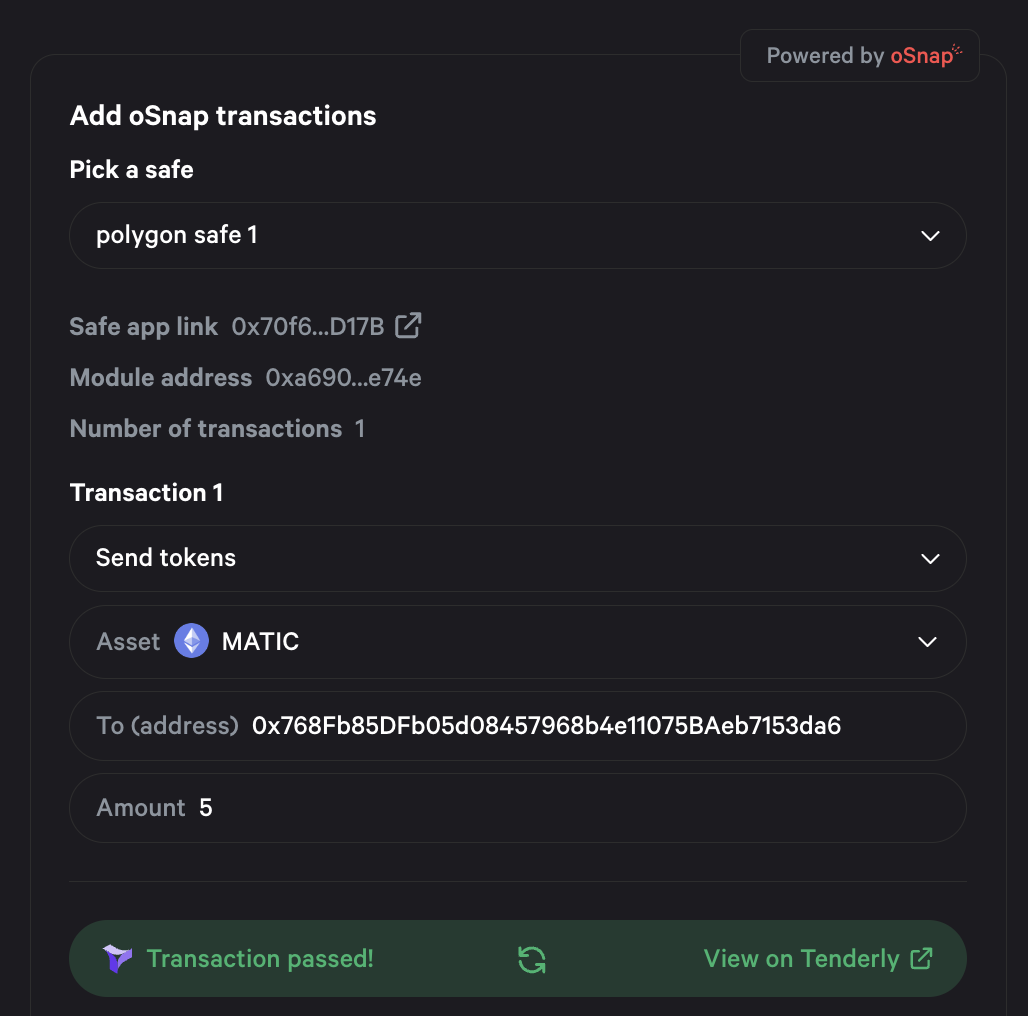
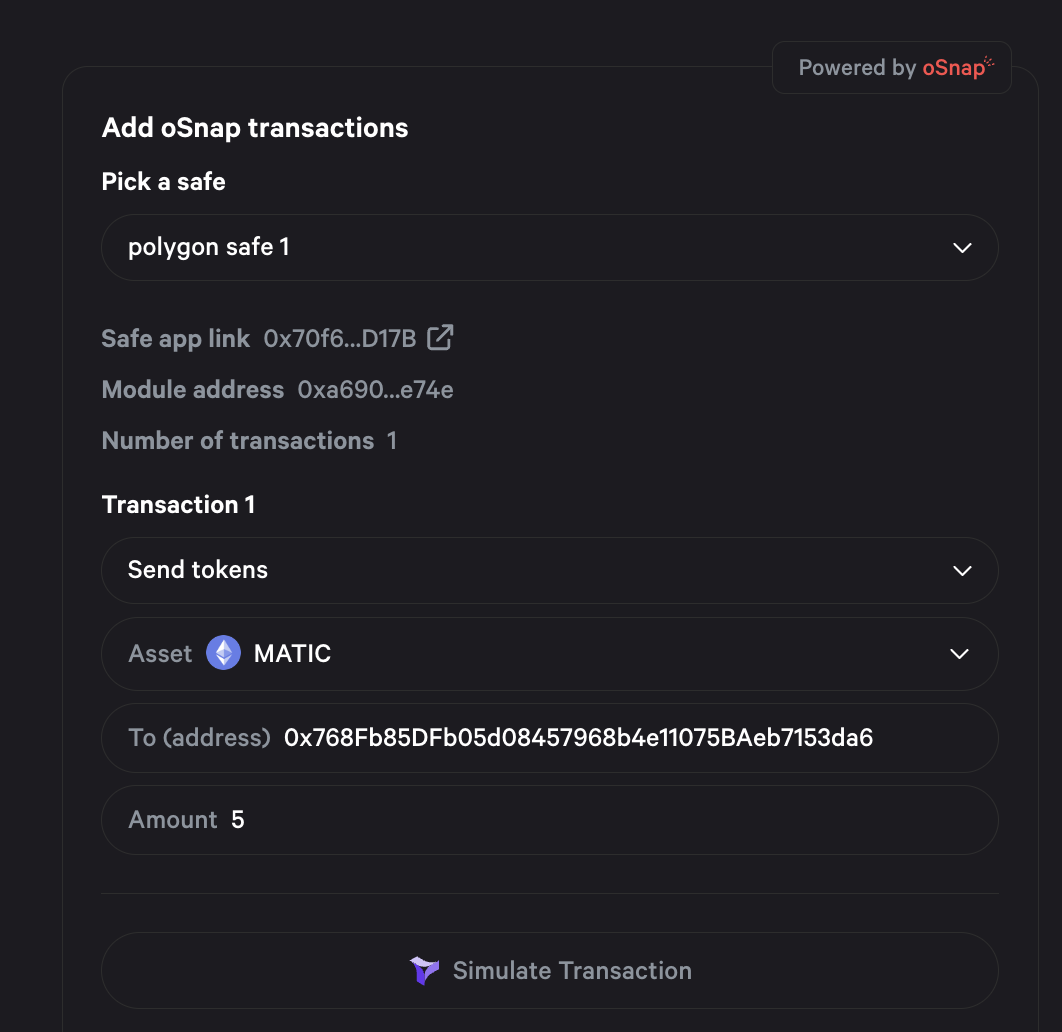
GITBOOK-199: kanishk's overhaul v0

diff --git a/README.md b/README.md
@@ -1,21 +1,84 @@
 ---
-description: An optimistic oracle built for Web3
+description: A decentralized truth machine
 ---
 
-# UMA Protocol
+# Welcome to UMA
 
-UMA is an optimistic oracle and dispute arbitration system that securely allows for arbitrary types of data to be brought onchain. UMA’s oracle system provides data for projects including a crosschain bridge, insurance protocols, custom derivatives and prediction markets.
+**An optimistic oracle (OO) that can record any verifiable truth or data onto a blockchain** :crystal\_ball:
 
-UMA's oracle is used to create many other types of products and protocols. For information about Outcome, a DAO tooling platform built on UMA that supports KPI Options, Success Tokens and optimistic governance, refer [here](https://www.outcome.finance/). For information about Across, a crosschain asset bridge secured by UMA, refer [here](https://across.to/).
+UMA is an optimistic oracle and dispute arbitration system that securely allows for arbitrary types of data to be brought onchain. UMA’s oracle system provides verified onchain data for projects including:&#x20;
 
-## [Developers](developers/optimistic-oracle/getting-started.md)
+1. Crosschain bridge
+2. Prediction markets
+3. Insurance protocols
+4. Custom derivatives&#x20;
 
-## [Protocol Overview](protocol-overview/how-does-umas-oracle-work.md)
+UMA's optimistic oracle (OO) is designed to be modular and extensible with focus on building real-world use cases. Two main versions of the optimistic oracle (OO) are currently live: **OOv2** and **OOv3**. Choosing the right one depends on your use case.&#x20;
 
-## [Community](community/governance/)
+<figure><img src=".gitbook/assets/For Kanishk (1).png" alt=""><figcaption></figcaption></figure>
 
-## [Using UMA](using-uma/voting-walkthrough/)
+***
 
-## [Verification Guide](./#verification-guide)
+## Core Concepts
 
-## [Resources](resources/network-addresses/)
+Learn the fundamentals of UMA's optimistic oracle.
+
+<table data-view="cards"><thead><tr><th></th><th></th><th data-hidden data-card-cover data-type="files"></th><th data-hidden data-card-target data-type="content-ref"></th></tr></thead><tbody><tr><td><strong>Optimistic Oracle V2</strong></td><td>Build prediction markets and insurance protocols</td><td><a href=".gitbook/assets/OOv2.png">OOv2.png</a></td><td><a href="developers/optimistic-oracle/">optimistic-oracle</a></td></tr><tr><td><strong>Optimistic Oracle V3</strong></td><td>Build data asserters and escalation managers</td><td><a href=".gitbook/assets/OOv3.png">OOv3.png</a></td><td><a href="developers/optimistic-oracle-v3/">optimistic-oracle-v3</a></td></tr><tr><td><strong>Voting Walkthrough</strong></td><td>Learn how to stake tokens, vote, and claim rewards</td><td><a href=".gitbook/assets/voting.png">voting.png</a></td><td><a href="using-uma/voting-walkthrough/">voting-walkthrough</a></td></tr></tbody></table>
+
+### Correct Oracle for Your Use Case
+
+UMA offers OOv2 and OOv3. Based on your idea and product, let's learn which one fits your use case best:
+
+|                                              OOv2                                              |                                                   OOv3                                                  |
+| :--------------------------------------------------------------------------------------------: | :-----------------------------------------------------------------------------------------------------: |
+|   Integrations must submit data requests that can then be answered by third-party proposers.   | Integrations submit assertions, where they propose data to their own request along with its parameters. |
+| The specific parameters for proposers and disputers to follow must be included in the request. |                        The challenge period and dispute process remains the same.                       |
+|  Primary use cases: Prediction markets, sports betting applications, and insurance protocols.  |       Primary use cases: Crosschain infrastructure, content moderation, transaction verification.       |
+
+We understand that your product needs can be complex and would require a larger discussion on which optimistic oracle version to use. Feel free to reach out to us [here](resources/links.md#links) and get help.
+
+***
+
+## Developer Quickstart
+
+Having decided the correct optimistic oracle for your use case, let's now dive deeper into how you can ship apps powered by verifiable onchain truth using UMA's optimistic oracle.
+
+{% tabs %}
+{% tab title="OOv2" %}
+OOv2 prioritizes protocols that need third-parties to propose answers to data requests.&#x20;
+
+Here are some app guides to help you build on UMA OOv2:
+
+<table data-card-size="large" data-view="cards"><thead><tr><th></th><th></th><th data-hidden data-card-cover data-type="files"></th></tr></thead><tbody><tr><td><strong>Prediction Market</strong></td><td>Use OOv2 to identify and settle real-world events in prediction markets.</td><td><a href=".gitbook/assets/Dev Quickstart - Prediction Markets.png">Dev Quickstart - Prediction Markets.png</a></td></tr><tr><td><strong>Insurance</strong></td><td>Use OOv2 to verify and resolve claims in insurance applications.</td><td><a href=".gitbook/assets/Dev Quickstart - Insurance.png">Dev Quickstart - Insurance.png</a></td></tr></tbody></table>
+{% endtab %}
+
+{% tab title="OOv3" %}
+OOv3 prioritizes protocols that simply needs asserted data to be verified.&#x20;
+
+Here are some app guides to help you build on UMA OOv3:
+
+<table data-card-size="large" data-view="cards"><thead><tr><th></th><th></th><th data-hidden data-card-cover data-type="files"></th></tr></thead><tbody><tr><td><strong>Data Asserter</strong></td><td>Use OOv3 to asserts arbitrary offchain data onchain through flexible assertions</td><td><a href=".gitbook/assets/Dev Quickstart - Data assertion.png">Dev Quickstart - Data assertion.png</a></td></tr><tr><td><strong>Escalation Managers</strong></td><td>Use OOv3 to enable modular functionality via custom escalation managers</td><td><a href=".gitbook/assets/Dev Quickstart - Escalation managers.png">Dev Quickstart - Escalation managers.png</a></td></tr></tbody></table>
+{% endtab %}
+{% endtabs %}
+
+***
+
+## Community
+
+The UMA token secures UMA’s optimistic oracle through decentralized governance and economic guarantees against corruption. Token holders vote on upgrades, price requests, and disputes, earning rewards for honest participation.
+
+**UMA Improvement Proposals (UMIPs)** are design documents used to propose changes to the UMA ecosystem. They are an important part of UMA's governance processes.&#x20;
+
+The **UMA DAO** accepts proposals for onchain actions that require tokenholders approval. An example would be a request for funding from the UMA treasury.
+
+<table data-view="cards" data-full-width="false"><thead><tr><th></th><th></th><th data-hidden data-card-cover data-type="files"></th></tr></thead><tbody><tr><td><strong>Governance</strong></td><td>Learn about UMA token, UMIPs and voting on UMA's DVM</td><td><a href=".gitbook/assets/01UMA governance.png">01UMA governance.png</a></td></tr><tr><td><strong>UMIP Process</strong></td><td>Learn how UMIPs propose changes to the UMA Ecosystem</td><td><a href=".gitbook/assets/02UMIP process.png">02UMIP process.png</a></td></tr><tr><td><strong>DAO Proposals</strong></td><td>Learn how you can submit onchain proposals to the UMA Ecosystem</td><td><a href=".gitbook/assets/03DAO proposal.png">03DAO proposal.png</a></td></tr></tbody></table>
+
+***
+
+## Resources and Support
+
+We request all community members and developers to [join our discord server](https://discord.umaproject.org/) and gain instant help on any issues they face while voting or submitting proposals to UMA.
+
+You can [find more support resources here](broken-reference).
+
+The security of our protocol is extremely crucial. If you notice any bugs in the protocol, [please report them here](resources/audit-and-bug-bounty-programs.md#submissions). You can also find details of our [audits here](resources/audit-and-bug-bounty-programs.md).

diff --git a/developers/optimistic-oracle-v3/quick-start.md b/developers/optimistic-oracle-v3/quick-start.md
@@ -1,0 +1,59 @@
+---
+description: 0 to 1 integration with the Optimistic Oracle V3.
+---
+
+# Quick start
+
+The primary integration point into the UMA ecosystem is the Optimistic Oracle V3 (OOV3). The OOV3 is an _**oracle for arbitrary off-chain data**_ which leverages an interactive escalation game between _asserters_ and _disputers_ and is secured by _economic incentives_. It differs from the Optimistic Oracle V2 (getting started can be found [here](../optimistic-oracle/getting-started.md)) by being easier to reason about and simpler in integration points.
+
+This getting started tutorial will show you how to go from 0 to 1 with the OOV3 by executing the simplest possible assertion flow. Later in the docs you can find more information on how the OOV3 works and dig deeper into its mechanism and more sophisticated code examples.&#x20;
+
+### **A minimum viable OOV3 integration**
+
+The OOV3 works by making a truth claim about the world, stating that something has happened or is true. Once asserted, the assertion enters a challenge period wherein someone can disagree with the assertion, by disputing it. If no one disputes it during the challenge window the statement is taken as true. If disputed, the outcome is arbitrated using the UMA DVM (more info on how this works here).&#x20;
+
+In this tutorial you will be working through a simple smart contract that asserts the following truth: `Statement: Argentina won the 2022 Fifa world cup in Qatar.`&#x20;
+
+Once through the challenge window, you will use the assertion in your resolution contract. This shows the full non-dispute lifecycle of an OOV3 data assertion. It will give you the basic intuition as to how the Optimistic Asserter works without much overhead and is a great starting point before digging deeper.  Let's get started!
+
+### **Prerequisites**
+
+To complete this tutorial you will nee&#x64;**:**
+
+1. Metamask installed in a Chromium based browser (such as [Google Chrome](https://www.google.com/chrome/)) If you don't have it already, you can get Metamask [here](https://metamask.io/).
+2. A wallet set up in Metamask.
+3. [Görli](https://goerli.net/) test ETH to send test transactions. You can get GETH from [Alchemy's faucet](https://goerlifaucet.com/).
+
+### Asserting a truth
+
+First, we will work through the basic flow for _asserting a truth to the oracle_. In this example, we are making a statement about the outcome of a sports event, but the statement could be much more complex; it could power any kind of smart contract system requiring data.&#x20;
+
+The contract used in this tutorial is meant to be a simple data assertion flow. The contract exposes a simple `assertTruth` function which asserts the truth to the OA about the outcome of the world cup.
+
+1. [Go to this example contract on Remix](https://remix.ethereum.org/#activate=solidity,fileManager\&version=soljson-v0.8.16+commit.07a7930e.js\&optimize=false\&runs=200\&gist=17a8a29b2f8ae432e8bac0b88cff8bb1\&call=fileManager//open//gist-17a8a29b2f8ae432e8bac0b88cff8bb1/OOV3_GettingStarted.sol). This gives you the minimum assertion flow. Read the contract and the comments listed within.
+2. In the far left hand menu, click the link to deploy and run transactions (which looks like the Ethereum logo and a right arrow).
+3. In the "Environment" dropdown, choose "Injected Provider," and connect to your wallet. **Make sure you are connected to Görli within your metamask wallet, that has Görli test ETH!** You don't want to deploy to a real network and spend real gas, and the Görli Optimistic Oracle address hardcoded into the contract will not work on other networks.
+4. Under the "Contract" dropdown, select `OOV3_GettingStarted`.
+5. Click "Deploy" and confirm the transaction with your wallet.
+6. You should now see the `OOV3_GettingStarted` contract under "Deployed Contracts". Clicking the dropdown carrot will reveal buttons for each of the functions in the contract.
+7. Click `assertTruth` to request the data specified in the contract's ancillary data, asserting the truth about the outcome of the Fifa world cup. This will submit a data assertion to the Optimistic Asserter and the assertion will enter the challenge period.
+
+What we've done in the above steps is: a) deploy a smart contract and b) submit a "data assertion" to the Optimistic Oracle V3 through the call to the Optimistic Oracle V3's `assertTruthWithDefaults` function. Now, the assertion has entered the challenge window and can be disputed by someone who disagrees with the assertion. If you click the `getAssertion` you can see some of the fields that are associated with the assertion. For more details on what these fields mean you can look at the OOV3 interface [here](https://github.com/UMAprotocol/protocol/blob/7a93650a7494eaee83756382a18ecf11314499cf/packages/core/contracts/optimistic-oracle-v3/interfaces/OptimisticOracleV3Interface.sol).
+
+The default liveness for an assertion is 120 seconds (2 minutes). Wait this time before going to the next step.
+
+### Settling the assertion
+
+Once the assertion has settled, and assuming no one has disputed it, we can settle it! Do the following:
+
+1. Click `settleAndGetAssertionResult` in remix. This will send a transaction to settle the assertion and return the settlement value.
+2. Wait for the transaction to mine.
+3. Once mined you can expand the transaction output block inline with the green tick arrow. If you scroll down here you can find some information about the assertion, such as the settlement value (which should be `true` as it was not disputed).
+
+<figure><img src="../../.gitbook/assets/2023-02-02 at 14.39.21@2x.png" alt=""><figcaption></figcaption></figure>
+
+4. Now, you can call `getAssertion` and `getAssertionResult` from remix and see the outputs. `getAssertion` has changed such the `settled` value is `true` and `getAssertionResult` now returns `true` as the assertion was deemed valid as it was not disputed.
+
+### Next Steps
+
+Hopefully you got a basic understanding of the Optimistic Oracle V3 request flow from this getting started guide. Note that this kind of example would not really work on mainnet as: a) there were no bonds for the asserter (and therefore no rewards for disputers) b) the challenge window was too short. The Optimistic Oracle V3 works due to economic incentives between the asserter and disputers, which was absent in this example to keep things simple. For some incentive compatible examples check out some of the example tutorials where we walk through more details on the functions discussed in this guide. Those can be found [here](./).

diff --git a/SUMMARY.md b/SUMMARY.md
@@ -1,11 +1,19 @@
 # Table of contents
 
-* [UMA Protocol](README.md)
+* [Welcome to UMA](README.md)
+* [What's New!](whats-new.md)
 
 ## Developers
 
-* [Quick start](developers/quick-start.md)
-* [Optimistic Oracle](developers/optimistic-oracle-v3/README.md)
+* [Optimistic Oracle v2](developers/optimistic-oracle/README.md)
+  * [Quick Start](developers/optimistic-oracle/getting-started.md)
+  * [Deposit Box](developers/optimistic-oracle/solidity-examples.md)
+  * [Event-Based Prediction Market](developers/optimistic-oracle/in-depth-tutorial-event-based-prediction-market.md)
+  * [Insurance Claim Arbitration](developers/optimistic-oracle/in-depth-tutorial-insurance-claims-arbitration.md)
+  * [Internal Optimistic Oracle](developers/optimistic-oracle/internal-optimistic-oracle.md)
+  * [Optimistic Arbitrator](developers/optimistic-oracle/in-depth-tutorial-optimistic-arbitrator.md)
+* [Optimistic Oracle v3](developers/optimistic-oracle-v3/README.md)
+  * [Quick start](developers/optimistic-oracle-v3/quick-start.md)
   * [Prediction Market](developers/optimistic-oracle-v3/prediction-market.md)
   * [Insurance](developers/optimistic-oracle-v3/in-depth-tutorial-insurance.md)
   * [Data Asserter](developers/optimistic-oracle-v3/data-asserter.md)
@@ -47,8 +55,8 @@
 
 * [Verification System](verification-guide/verification-system.md)
 * [Polymarket](verification-guide/yes_or_no.md)
-* [oSnap](verification-guide/osnap.md)
 * [Across](verification-guide/across.md)
+* [oSnap](verification-guide/osnap.md)
 * [Y2K](verification-guide/y2k.md)
 * [Index](verification-guide/index.md)
 
@@ -62,13 +70,6 @@
 * [Subgraphs](resources/subgraphs/subgraph-data.md)
   * [Mainnet Voting Entities](resources/subgraphs/mainnet-voting-entities.md)
   * [Queries](resources/subgraphs/queries.md)
-* [Optimistic Oracle v2](developers/optimistic-oracle/README.md)
-  * [OO Quick Start](developers/optimistic-oracle/getting-started.md)
-  * [Deposit Box](developers/optimistic-oracle/solidity-examples.md)
-  * [Internal Optimistic Oracle](developers/optimistic-oracle/internal-optimistic-oracle.md)
-  * [Insurance Claim Arbitration](developers/optimistic-oracle/in-depth-tutorial-insurance-claims-arbitration.md)
-  * [Optimistic Arbitrator](developers/optimistic-oracle/in-depth-tutorial-optimistic-arbitrator.md)
-  * [Event-Based Prediction Market](developers/optimistic-oracle/in-depth-tutorial-event-based-prediction-market.md)
 * [Voting with a 2-Key Contract](resources/voting-with-a-2-key-contract.md)
 * [Unsupported Contracts](resources/unsupported-contracts.md)
 * [Additional Resources](resources/additional-resources.md)

diff --git a/whats-new.md b/whats-new.md
@@ -1,0 +1,50 @@
+---
+description: >-
+  Keep up with the latest updates to UMA’s Optimistic Oracle. This changelog
+  covers new features, improvements, and important changes for developers and
+  integrators.
+---
+
+# What's New!
+
+## May 8, 2025
+
+{% stepper %}
+{% step %}
+**Showing Polymarket Clarifications in the Voter dApp**
+
+We’ve updated the voter dApp to show Polymarket clarifications right within the dApp to ensure that all UMA voters have access to the same critical information before voting on disputes.
+
+<figure><img src=".gitbook/assets/image (35).png" alt=""><figcaption></figcaption></figure>
+{% endstep %}
+
+{% step %}
+**Increased the Settlement Price Approval Threshold (SPAT)**
+
+The Settlement Price Approval Threshold (SPAT) is basically the level of agreement needed among voters to resolve a dispute. Before now, the OO used to accept a simple majority (50%+), which meant disputes could be resolved, even on rare occasions when opinions were pretty divided.&#x20;
+
+We’ve now raised SPAT to 65% to strengthen the required consensus for vote outcomes. If we don't hit that threshold, the vote "rolls" to another round, giving everyone time to reconsider and discuss until there’s a stronger community agreement.
+{% endstep %}
+
+{% step %}
+**Enhanced Voter Information and Warnings**
+
+We've added clear warnings and guidance for voters within the dApp to help voters understand that they have a responsibility to verify claims independently.
+
+<figure><img src=".gitbook/assets/image (33).png" alt=""><figcaption></figcaption></figure>
+{% endstep %}
+
+{% step %}
+**Improved Discussion Environment**
+
+We've updated how discussions are sorted in the voter dApp; instead of the initial chronological order where the earliest comments are seen first in the discussion pane, users can now sort from the most recent
+
+<figure><img src=".gitbook/assets/image (34).png" alt=""><figcaption></figcaption></figure>
+{% endstep %}
+
+{% step %}
+**Fixed PM Market Linking**
+
+We've resolved technical issues with links to Polymarket markets, ensuring voters can easily access the associated market information directly from the voter dApp. This provides crucial context about market odds and trading activity.
+{% endstep %}
+{% endstepper %}

diff --git a/developers/optimistic-oracle/README.md b/developers/optimistic-oracle/README.md
@@ -1,9 +1,3 @@
----
-description: >-
-  Please note that these tutorials are for an old version of the Optimistic
-  Oracle and are only left for reference.
----
-
 # Optimistic Oracle v2
 
 This section showcases different design patterns for building contracts that integrate with the UMA Optimistic Oracle (OO). These include:
@@ -11,5 +5,4 @@ This section showcases different design patterns for building contracts that int
 * A [simple deposit box](solidity-examples.md) to showcase the basic OO request lifecycle.
 * An [event based prediction market](in-depth-tutorial-event-based-prediction-market.md). In this example, settlement requests are submitted at the time of contract deployment, and the OO proposer network is used as a decentralized keeper service that identifies when settlement events happen and propose the outcomes.
 * An ["internal Optimistic Oracle"](internal-optimistic-oracle.md), where an integrating contract handles proposals and state management, and only uses the OO when proposal verification is needed or a dispute is filed.
-* An [insurance contract](in-depth-tutorial-insurance-claims-arbitration.md), where insurance recipients can submit insurance claims for verification through the OO and the DVM can be used to arbitrate these claims.
-* An [Optimistic Arbitrator contract](in-depth-tutorial-optimistic-arbitrator.md), where useful OO functions are wrapped together into single contract calls. Showcases how requests and proposals can be wrapped together into single calls to create "assertions", and requests, proposals and disputes can be wrapped together to create instant DVM arbitration situations.&#x20;
+

diff --git a/developers/optimistic-oracle/in-depth-tutorial-optimistic-arbitrator.md b/developers/optimistic-oracle/in-depth-tutorial-optimistic-arbitrator.md
@@ -1,5 +1,6 @@
 ---
 description: Wrapping Optimistic Oracle functionality into individual function calls
+hidden: true
 ---
 
 # Optimistic Arbitrator
@@ -152,7 +153,7 @@ All the unit tests covering the functionality described above are available [her
 yarn test test/OptimisticArbitrator/*
 ```
 
-Before deploying the contract check the comments on available environment variables in [the deployment script](https://github.com/UMAprotocol/dev-quickstart/blob/main/deploy/004\_deploy\_optimistic\_arbitrator.ts).
+Before deploying the contract check the comments on available environment variables in [the deployment script](https://github.com/UMAprotocol/dev-quickstart/blob/main/deploy/004_deploy_optimistic_arbitrator.ts).
 
 In the case of the Görli testnet, the defaults would use the Finder instance that references the [Mock Oracle](https://github.com/UMAprotocol/protocol/blob/master/packages/core/contracts/data-verification-mechanism/test/MockOracleAncillary.sol) implementation for resolving DVM requests. This exposes a `pushPrice` method to be used for simulating a resolved answer in case of disputed proposals. Also, the default Görli deployment would use the already whitelisted `TestnetERC20` currency that can be minted by anyone using its `allocateTo` method.
 

diff --git a/developers/osnap/snapshot-tutorial.md b/developers/osnap/snapshot-tutorial.md
@@ -37,11 +37,11 @@ Before publishing your transaction, oSnap includes a built-in Tenderly simulatio
 
 First, build your transaction.
 
-<figure><img src="../../.gitbook/assets/image.png" alt=""><figcaption></figcaption></figure>
+<figure><img src="../../.gitbook/assets/image (1).png" alt=""><figcaption></figcaption></figure>
 
 Then, click **simulate transaction**. This will simulate the transaction and return a **transaction passed** or **transaction failed** result.
 
-<figure><img src="../../.gitbook/assets/image (1).png" alt=""><figcaption></figcaption></figure>
+<figure><img src="../../.gitbook/assets/image (1) (1).png" alt=""><figcaption></figcaption></figure>
 
 You can also view the results of the simulation in Tenderly.
 

diff --git a/developers/optimistic-oracle-v3/README.md b/developers/optimistic-oracle-v3/README.md
@@ -1,8 +1,8 @@
-# Optimistic Oracle
+# Optimistic Oracle v3
 
 This section showcases different design patterns for building contracts that integrate with the UMA Optimistic Oracle v3. These include:
 
-* A [quick start tutorial](../quick-start.md) showcasing the simplest possible OOv3 integration contract.
+* A [quick start tutorial](quick-start.md) showcasing the simplest possible OOv3 integration contract.
 * Building example contracts:
   * [Prediction market](prediction-market.md)
   * [Insurance contract](in-depth-tutorial-insurance.md)

diff --git a/developers/optimistic-oracle-v3/escalation-managers.md b/developers/optimistic-oracle-v3/escalation-managers.md
@@ -1,6 +1,6 @@
 ---
 description: >-
-  Using the full policy escalation manager as an example for modular 
+  Using the full policy escalation manager as an example for modular
   functionality you could implement with custom escalation managers
 ---
 

diff --git a/developers/optimistic-oracle/internal-optimistic-oracle.md b/developers/optimistic-oracle/internal-optimistic-oracle.md
@@ -2,6 +2,7 @@
 description: >-
   Using the Optimistic Oracle to verify arbitrary data type results proposed
   through an external contract
+hidden: true
 ---
 
 # Internal Optimistic Oracle

diff --git a/developers/optimistic-oracle-v3/prediction-market.md b/developers/optimistic-oracle-v3/prediction-market.md
@@ -2,6 +2,7 @@
 description: >-
   Building a prediction market that uses the UMA Optimistic Oracle V3 for
   settlement and event identification
+hidden: true
 ---
 
 # Prediction Market

diff --git a/developers/optimistic-oracle-v3/in-depth-tutorial-insurance.md b/developers/optimistic-oracle-v3/in-depth-tutorial-insurance.md
@@ -1,5 +1,6 @@
 ---
 description: Using the Optimistic Oracle V3 to allow for verification of insurance claims.
+hidden: true
 ---
 
 # Insurance
